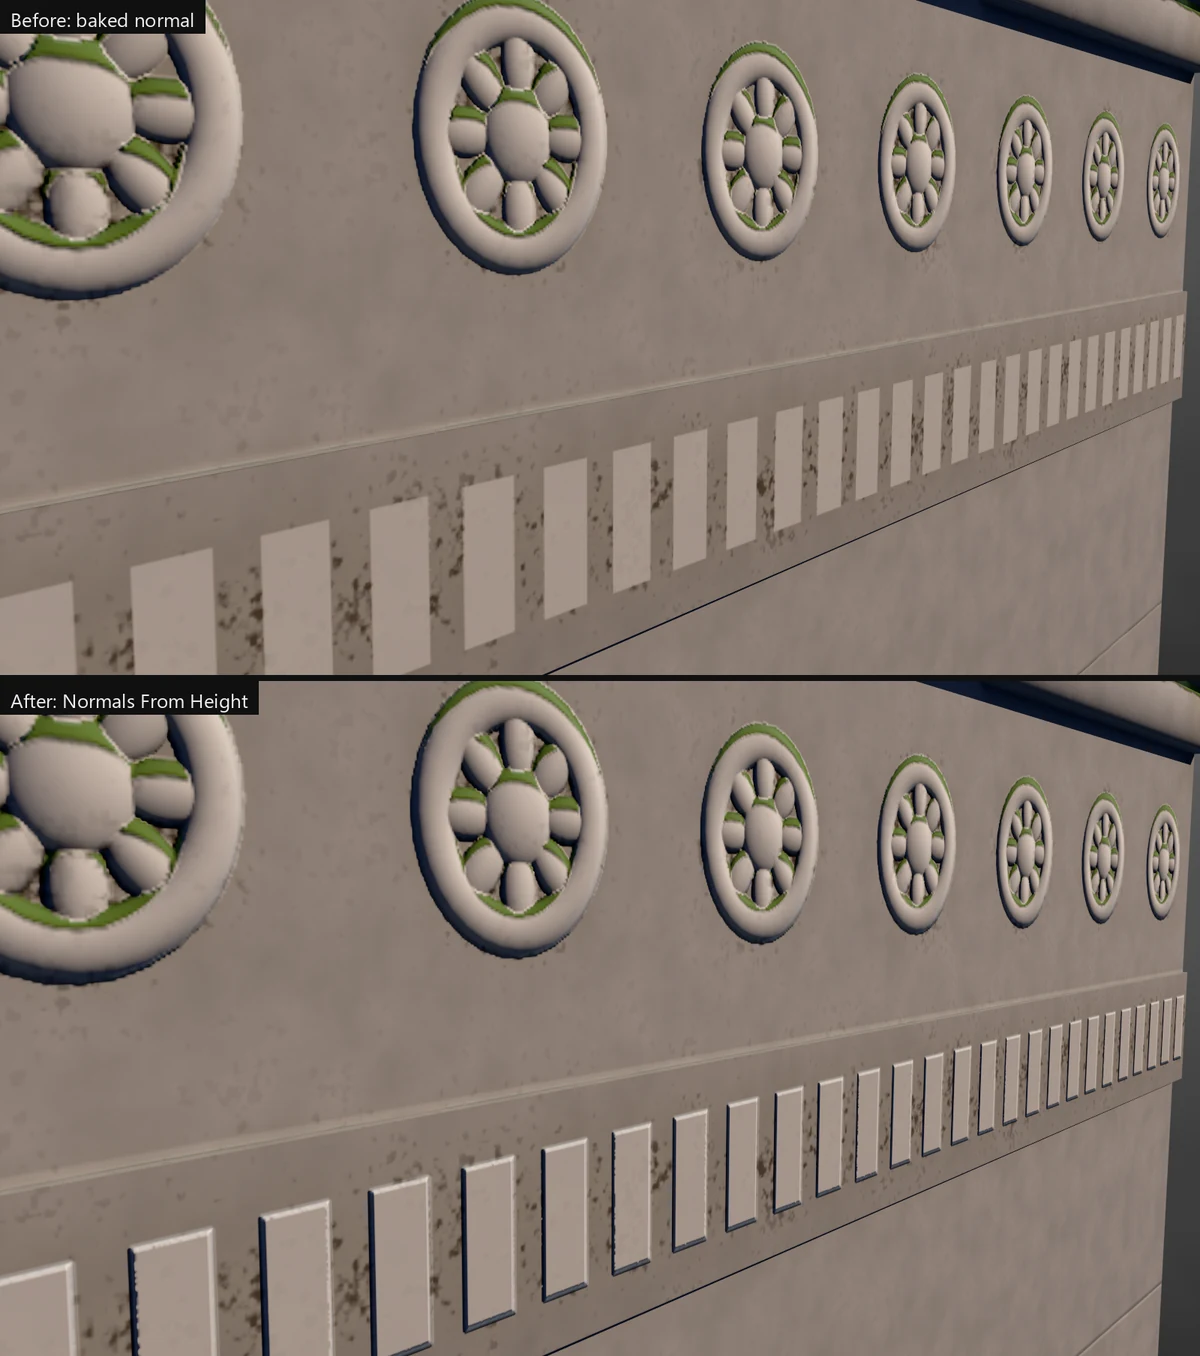
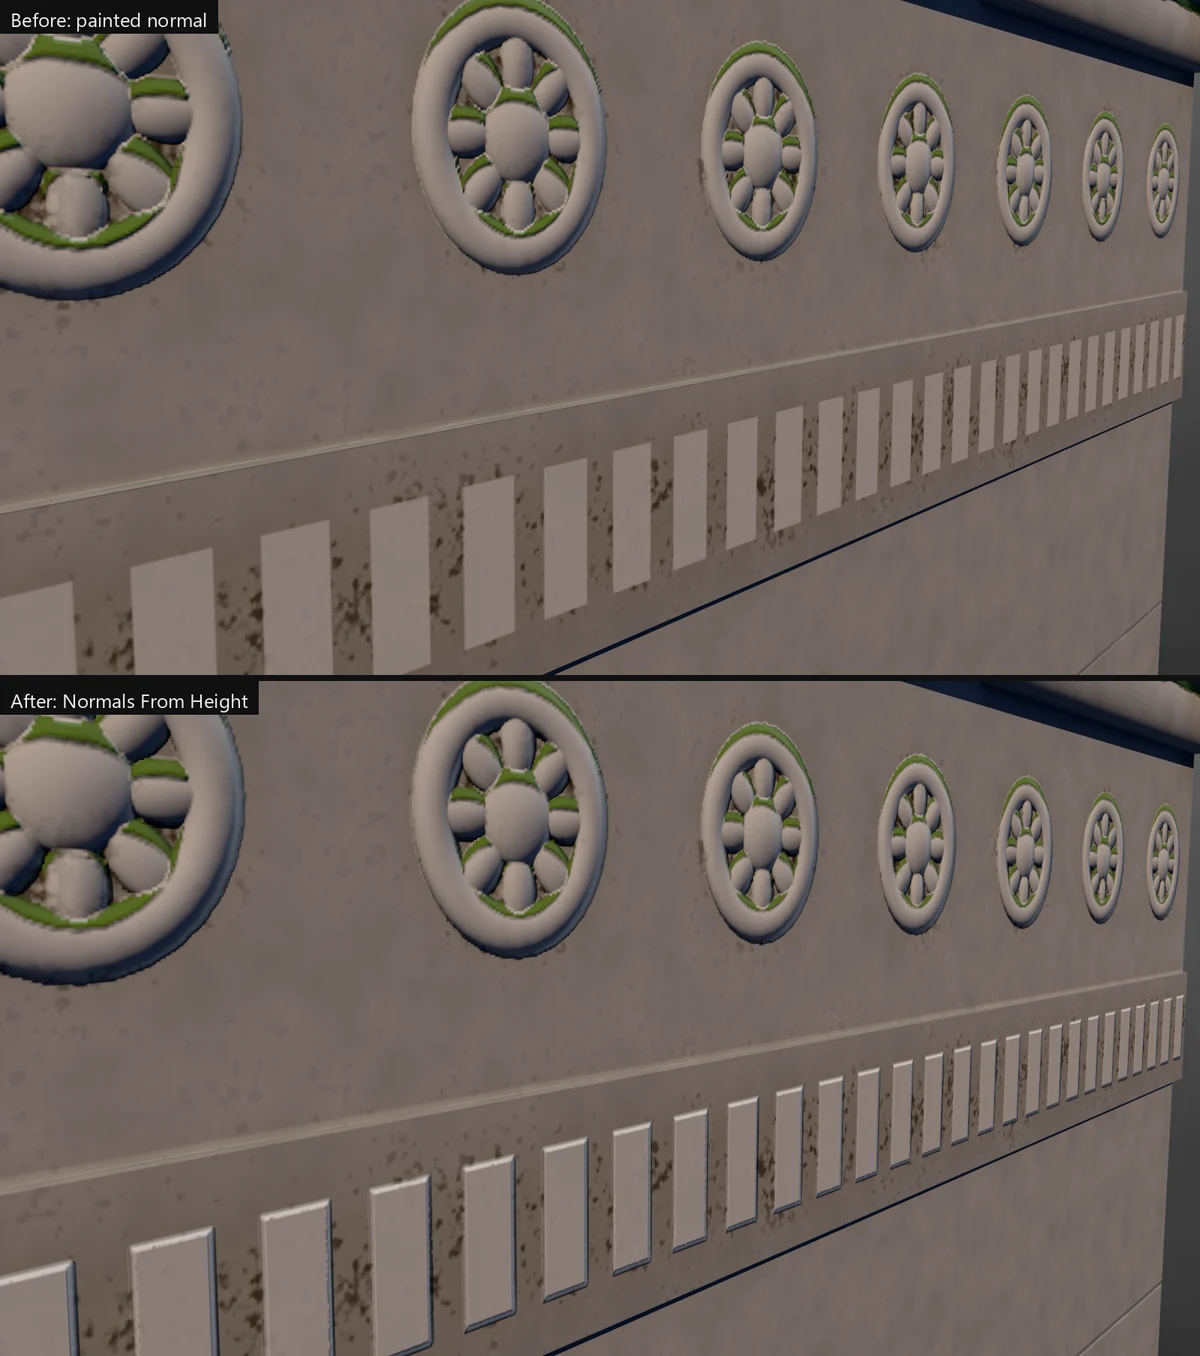
Normals From Height: live texture set shots, Height Normal Rebuild node and heightSource reference

diff --git a/docs/baking.md b/docs/baking.md
@@ -32,9 +32,9 @@ Low and High add the meshes under the selection too; Shift+click adds only the s
 
 **Base colour with emissive.** Add the **Base Colour + Emissive** map on the Maps tab: base colour in RGB, an emissive mask in A. Its channel rows can take any channel of any baked map.
 
-**Normals from height.** For walls that light as walls, and normals that match displacement or parallax: bake **Detail Normal** and **Height** together. The material rebuilds the shape's normals from the height and lays the detail normal on top. Assigning the maps (automatic for Unreal targets, or **Assign** in the Baker) sets this up in Lila: it fills **Height Map** and ticks **Normals From Height** in the Material Editor, with the depth and UV size the bake measured. In Unreal, drop `MF_LilaHeightNormal` (in `/Game/LilaLink/Masters`) into your material: connect the height map, the sampled detail normal and the same **HeightDepth**, **HeightUVWidth** and **HeightUVHeight**. Materials LilaLink generates use it already. Texture sets export this way when **Normals from height** is ticked in the set's settings.
+**Normals from height.** For walls that light as walls, and normals that match displacement or parallax: bake **Detail Normal** and **Height** together. The material rebuilds the shape's normals from the height and lays the detail normal on top. Assigning the maps (automatic for Unreal targets, or **Assign** in the Baker) sets this up in Lila: it fills **Height Map** and ticks **Normals From Height** in the Material Editor, with the depth and UV size the bake measured. In Unreal, drop `MF_LilaHeightNormal` (in `/Game/LilaLink/Masters`) into your material: connect the height map, the sampled detail normal and the same **HeightDepth**, **HeightUVWidth** and **HeightUVHeight**. Materials LilaLink generates use it already. Texture sets show and export their normal this way when **Normals from height** is ticked in the set's settings; trim sheets turn it on for their sets when they bake a detail normal.
 
-![Sharp-sided dentils baked onto a trim sheet: with the baked normal they read as flat stickers; rebuilt from the height, their sides light](images/baking/normals-from-height-lila.webp)
+![Sharp-sided dentils baked onto a trim sheet: painted over the baked normal they read as flat stickers; rebuilt from the height, their sides light](images/baking/normals-from-height-lila.webp)
 
 ![The same trim sheet in Unreal with parallax: the baked normal leaves the dentils flat, MF_LilaHeightNormal gives them walls](images/baking/normals-from-height-unreal.webp)
 

diff --git a/docs/nodes/texture-nodes.md b/docs/nodes/texture-nodes.md
@@ -1344,6 +1344,25 @@ Convexity from a normal map: above 0.5 on ridges, below in creases.
 | --- | --- | --- | --- |
 | `intensity` |  | `1` |  |
 
+### Height Normal Rebuild
+
+Type `heightNormalRebuild`.
+
+The normal a material with Normals From Height shows (Unreal's MF_LilaHeightNormal): the height's own normals with the detail of the normal laid on them. Where the height is steep and the normal is well off it (a wall a bake missed), the height wins; elsewhere the normal comes through as it is. depth is the cm from height 0 to 1, sizeU and sizeV the world size of the UV square, fade the slope in degrees where the height takes over (0 keeps the normal).
+
+| Socket | Type | Kind | Default | Description |
+| --- | --- | --- | --- | --- |
+| `normal` | color | input | `[0.5, 0.5, 1, 1]` |  |
+| `height` | gray | input | `0.5` |  |
+| `out` | color | output |  |  |
+
+| Property | Options | Default | Description |
+| --- | --- | --- | --- |
+| `depth` |  | `5` |  |
+| `sizeU` |  | `100` |  |
+| `sizeV` |  | `100` |  |
+| `fade` |  | `45` |  |
+
 ### Height to Normal
 
 Type `heightToNormal`.

diff --git a/docs/python/lila.ops.md b/docs/python/lila.ops.md
@@ -11060,7 +11060,7 @@ Not undoable.
 
 ### texSetSettings
 
-Change a texture set's settings: the keys given replace the set's (channels, width, height, tiles, normalConvention, bakeProject, exportPreset, material, heightDepth, uvWidth, uvHeight, normalFromHeight, normalFade). Returns the full settings.
+Change a texture set's settings: the keys given replace the set's (channels, width, height, tiles, normalConvention, bakeProject, exportPreset, material, heightDepth, uvWidth, uvHeight, normalFromHeight, normalFade, heightSource). Returns the full settings.
 
 **Objects:** set settings
 
